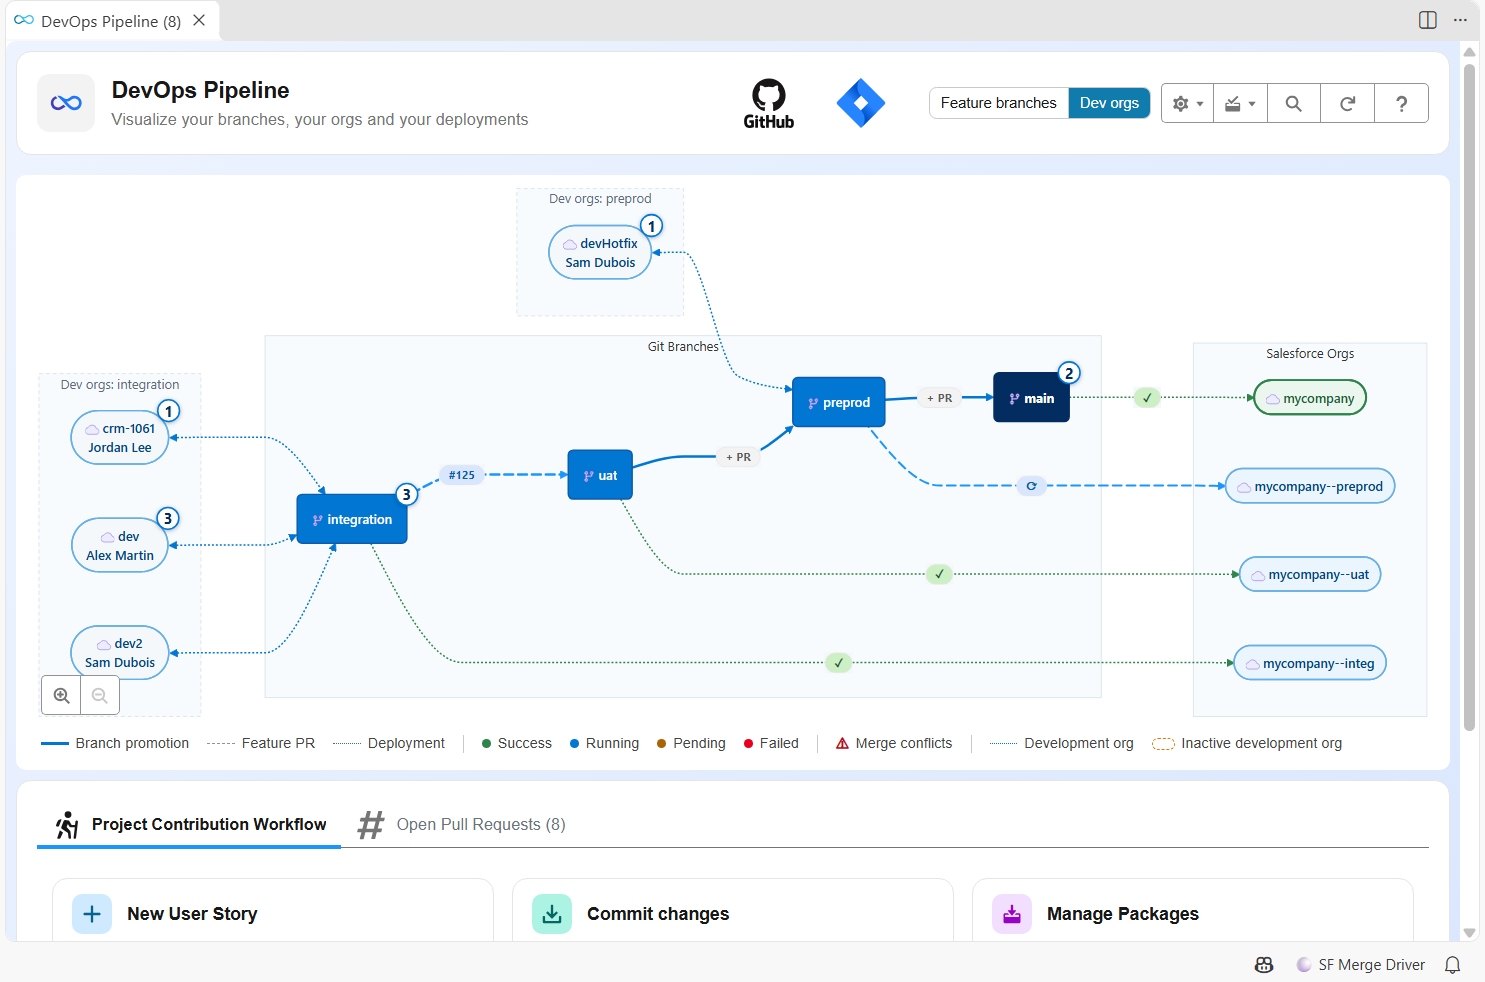
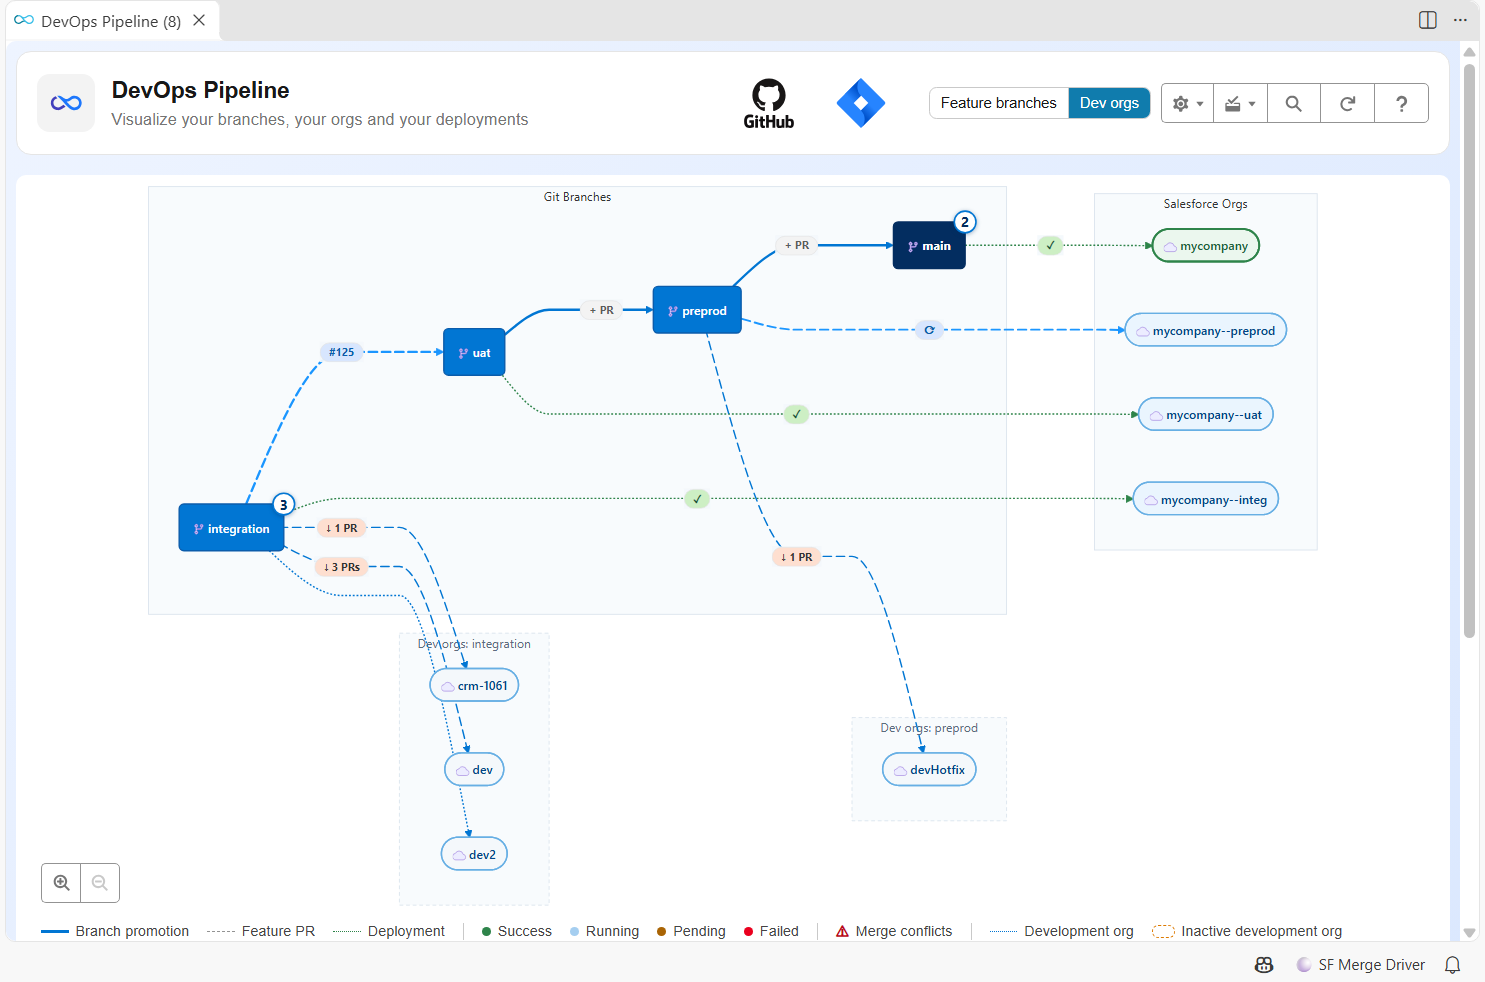
docs(dev-orgs): the chip of the Pull Requests to backpromote on the arrow to each dev org

diff --git a/docs/salesforce-devops-dev-orgs.md b/docs/salesforce-devops-dev-orgs.md
@@ -12,7 +12,7 @@ sfdx-hardis keeps the list of these development orgs, with the branch each of th
 
 ## Where you see it
 
-- **In VS Code**, once an org is registered, the switch at the top of the DevOps Pipeline shows either the **Feature branches** (the default) or the **Dev orgs**: the major branches, with every development org next to the branch it targets and the number of Pull Requests it misses. Click an org to see what it misses, and to run a backpromote, edit it or remove it.
+- **In VS Code**, once an org is registered, the switch at the top of the DevOps Pipeline shows either the **Feature branches** (the default) or the **Dev orgs**: the major branches, each with an arrow to the development orgs that target it. The orange chip on an arrow is the number of Pull Requests the org misses, to backpromote; no chip means the org is up to date. Click an org to see its owner, its users and what it misses, and to run a backpromote, edit it or remove it.
 
   ![DevOps Pipeline showing the development orgs of the team next to their target branch](assets/images/dev-orgs-pipeline.png)
 
